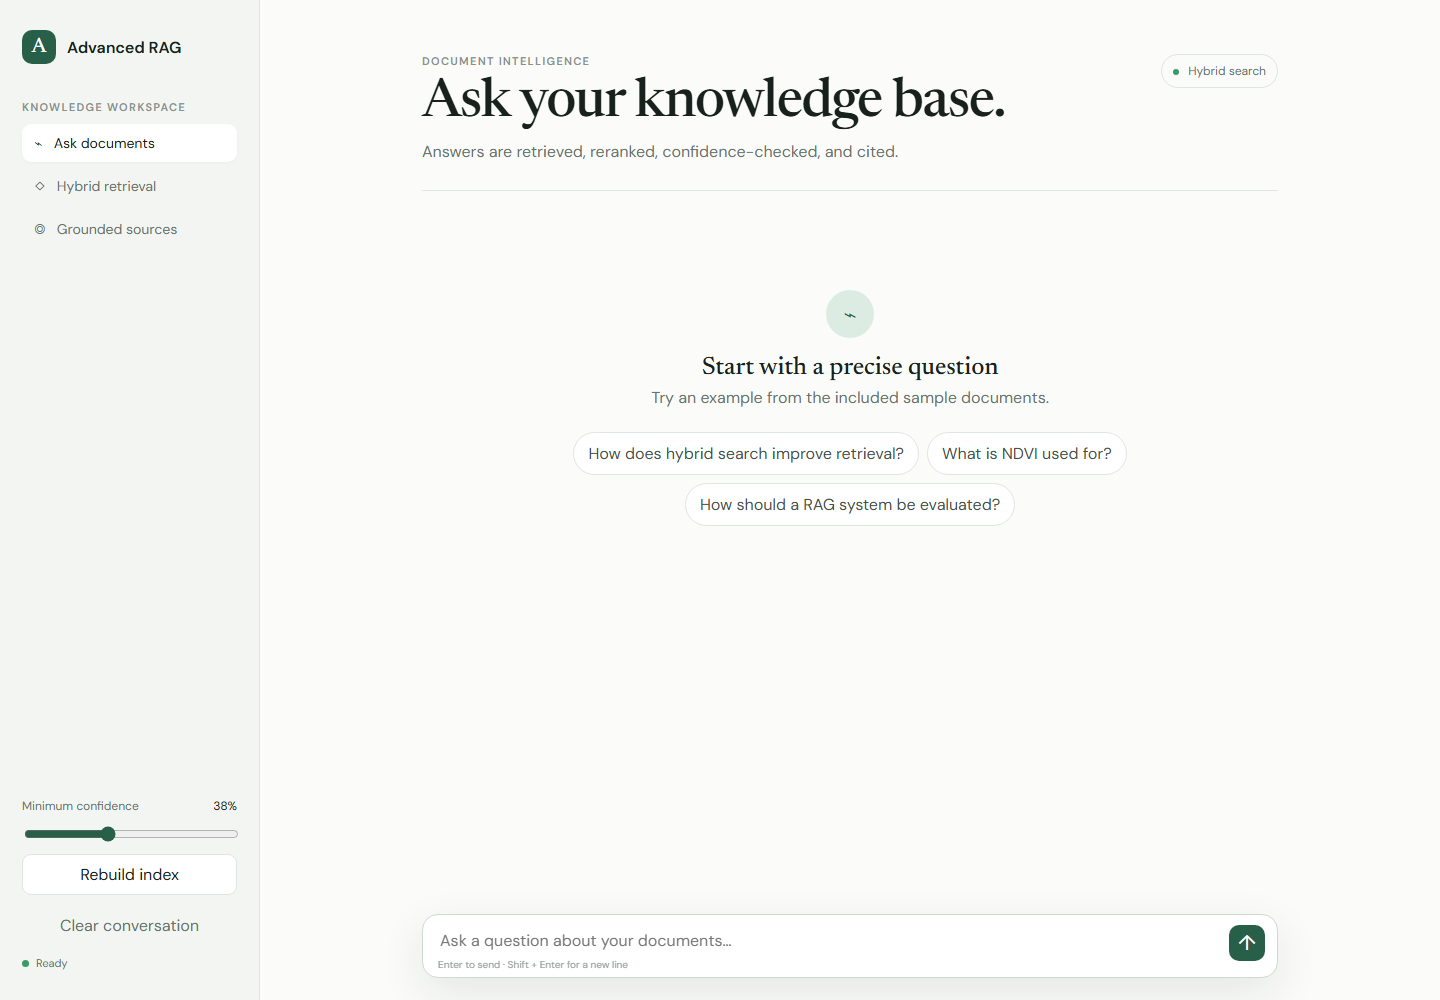
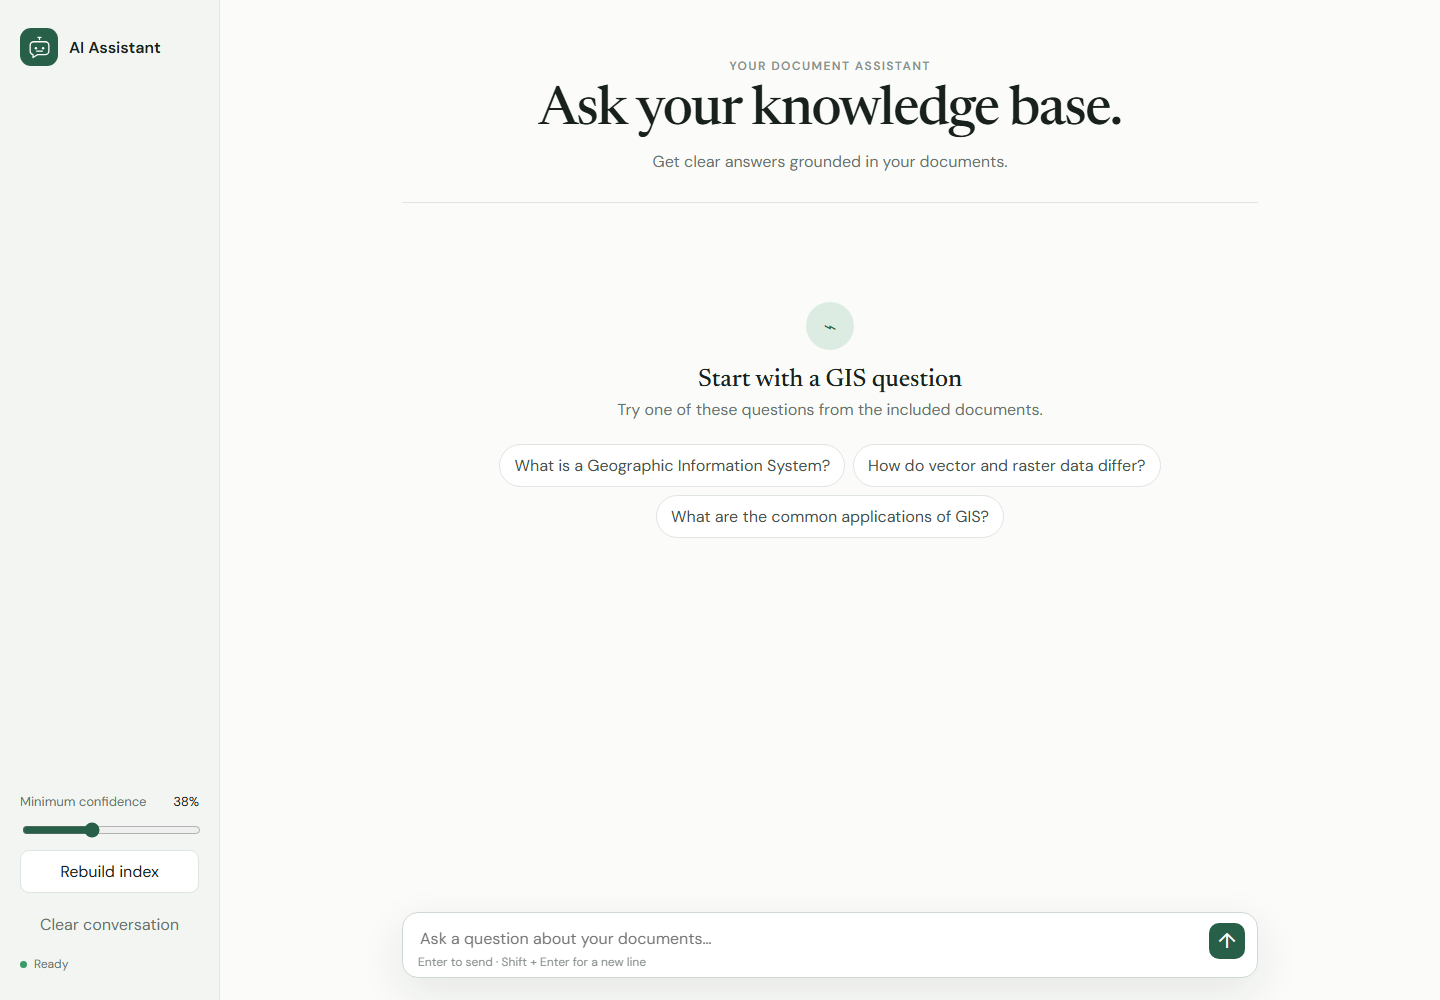
Refine assistant branding and GIS starter prompts

diff --git a/advanced rag/frontend/styles.css b/advanced rag/frontend/styles.css
@@ -1,2 +1,1 @@
-:root{--ink:#18211d;--muted:#68736d;--line:#dfe5e1;--paper:#fbfcfa;--panel:#f2f5f1;--green:#285f48;--mint:#dcece3}*{box-sizing:border-box}body{margin:0;color:var(--ink);background:var(--paper);font-family:"DM Sans",sans-serif}button,textarea,input{font:inherit}button{cursor:pointer}.shell{min-height:100vh;display:grid;grid-template-columns:260px 1fr}.sidebar{border-right:1px solid var(--line);background:var(--panel);padding:30px 22px;display:flex;flex-direction:column;justify-content:space-between}.brand{color:var(--ink);text-decoration:none;display:flex;align-items:center;gap:11px;font-weight:600}.mark{width:34px;height:34px;border-radius:10px;display:grid;place-items:center;color:#fff;background:var(--green);font:21px "Newsreader",serif}.eyebrow{margin:36px 0 10px;color:#89928d;font-size:11px;font-weight:600;letter-spacing:.12em;text-transform:uppercase}nav{display:grid;gap:5px}.nav{padding:10px 12px;color:var(--muted);border-radius:9px;font-size:14px}.nav.active{background:#fff;color:var(--ink);box-shadow:0 1px 3px #18211d0a}.controls{display:grid;gap:10px}.controls label{font-size:12px;color:var(--muted)}output{float:right;color:var(--ink)}input[type=range]{width:100%;accent-color:var(--green)}.secondary,.quiet{border:1px solid var(--line);border-radius:9px;background:#fff;padding:9px;color:var(--ink)}.quiet{background:transparent;border-color:transparent;color:var(--muted)}.status{font-size:11px;color:var(--muted);display:flex;align-items:center;gap:7px}.status span{width:7px;height:7px;border-radius:50%;background:#d09a39}.status.ready span{background:#3a9b68}main{width:min(920px,calc(100vw - 300px));min-height:100vh;margin:0 auto;padding:54px 32px 150px;position:relative}header{display:flex;justify-content:space-between;align-items:flex-start;border-bottom:1px solid var(--line);padding-bottom:28px}header .eyebrow{margin:0 0 8px}h1{font:500 clamp(34px,5vw,54px)/1.02 "Newsreader",serif;letter-spacing:-.025em;margin:0}.lede{margin:10px 0 0;color:var(--muted)}.method{padding:8px 11px;border:1px solid var(--line);border-radius:99px;color:var(--muted);font-size:12px;white-space:nowrap}.method i{display:inline-block;width:6px;height:6px;margin-right:6px;border-radius:50%;background:#3a9b68}.conversation{padding:34px 0;display:grid;gap:24px}.empty{text-align:center;padding:65px 10px}.orb{margin:auto;width:48px;height:48px;display:grid;place-items:center;color:var(--green);background:var(--mint);border-radius:50%;font-size:23px}h2{font:500 25px "Newsreader",serif;margin:18px 0 6px}.empty p{color:var(--muted);margin:0}.suggestions{display:flex;flex-wrap:wrap;justify-content:center;gap:8px;margin-top:24px}.suggestions button{border:1px solid var(--line);background:#fff;color:#46514b;padding:10px 14px;border-radius:99px}.message{max-width:82%}.message.user{justify-self:end;background:var(--green);color:#fff;padding:12px 16px;border-radius:16px 16px 3px 16px}.message.assistant{justify-self:start;width:82%}.answer{border-left:2px solid var(--mint);padding-left:17px;line-height:1.65;white-space:pre-wrap}.meta{color:var(--muted);font-size:11px;margin-top:9px}.sources{margin-top:12px;display:grid;gap:7px}.source{background:var(--panel);border:1px solid var(--line);border-radius:9px;padding:10px 12px}.source summary{cursor:pointer;font-size:12px;font-weight:600}.source p{color:var(--muted);font-size:12px;line-height:1.5;margin:8px 0 0}.composer{position:fixed;bottom:22px;left:calc(260px + (100vw - 260px)/2);transform:translateX(-50%);width:min(856px,calc(100vw - 324px));background:#fff;border:1px solid #cfd8d2;border-radius:16px;padding:13px 56px 24px 15px;box-shadow:0 15px 45px #18211d18}.composer textarea{display:block;width:100%;resize:none;border:0;outline:0;color:var(--ink);background:transparent;max-height:140px}.composer button{position:absolute;right:12px;top:10px;width:36px;height:36px;border:0;border-radius:10px;color:#fff;background:var(--green);font-size:21px}.composer p{position:absolute;bottom:6px;left:15px;margin:0;color:#9aa29e;font-size:10px}.loading{color:var(--muted);animation:pulse 1.2s infinite}@keyframes pulse{50%{opacity:.45}}@media(max-width:720px){.shell{display:block}.sidebar{position:static;border-right:0;border-bottom:1px solid var(--line);padding:18px}.sidebar>div:first-child .eyebrow,nav{display:none}.controls{margin-top:18px;grid-template-columns:1fr 1fr}.controls label,.controls input,.status{grid-column:1/-1}main{width:100%;padding:34px 18px 145px}.method{display:none}.composer{left:18px;transform:none;width:calc(100vw - 36px);bottom:14px}.message,.message.assistant{max-width:95%;width:95%}}
-
+:root{--ink:#18211d;--muted:#68736d;--line:#dfe5e1;--paper:#fbfcfa;--panel:#f2f5f1;--green:#285f48;--mint:#dcece3}*{box-sizing:border-box}body{margin:0;color:var(--ink);background:var(--paper);font-family:"DM Sans",sans-serif}button,textarea,input{font:inherit}button{cursor:pointer}.shell{min-height:100vh;display:grid;grid-template-columns:220px 1fr}.sidebar{border-right:1px solid var(--line);background:var(--panel);padding:28px 20px;display:flex;flex-direction:column;justify-content:space-between}.brand{color:var(--ink);text-decoration:none;display:flex;align-items:center;gap:11px;font-weight:600}.bot-logo{width:38px;height:38px;border-radius:11px;display:grid;place-items:center;background:var(--green)}.bot-logo svg{width:23px;height:23px;fill:none;stroke:#fff;stroke-width:1.8;stroke-linecap:round;stroke-linejoin:round}.bot-logo circle{fill:#fff;stroke:none}.eyebrow{color:#89928d;font-size:12px;font-weight:600;letter-spacing:.12em;text-transform:uppercase}.controls{display:grid;gap:10px}.controls label{font-size:13px;color:var(--muted)}output{float:right;color:var(--ink)}input[type=range]{width:100%;accent-color:var(--green)}.secondary,.quiet{border:1px solid var(--line);border-radius:9px;background:#fff;padding:10px;color:var(--ink)}.quiet{background:transparent;border-color:transparent;color:var(--muted)}.status{font-size:12px;color:var(--muted);display:flex;align-items:center;gap:7px}.status span{width:7px;height:7px;border-radius:50%;background:#d09a39}.status.ready span{background:#3a9b68}main{width:min(920px,calc(100vw - 260px));min-height:100vh;margin:0 auto;padding:54px 32px 150px;position:relative}header{text-align:center;border-bottom:1px solid var(--line);padding:4px 0 30px}.hero-copy{max-width:720px;margin:0 auto}header .eyebrow{margin:0 0 10px}h1{font:500 clamp(34px,5vw,54px)/1.02 "Newsreader",serif;letter-spacing:-.025em;margin:0}.lede{margin:12px 0 0;color:var(--muted);font-size:16px}.conversation{padding:34px 0;display:grid;gap:24px}.empty{text-align:center;padding:65px 10px}.orb{margin:auto;width:48px;height:48px;display:grid;place-items:center;color:var(--green);background:var(--mint);border-radius:50%;font-size:23px}h2{font:500 25px "Newsreader",serif;margin:18px 0 6px}.empty p{color:var(--muted);margin:0}.suggestions{display:flex;flex-wrap:wrap;justify-content:center;gap:8px;margin-top:24px}.suggestions button{border:1px solid var(--line);background:#fff;color:#46514b;padding:10px 14px;border-radius:99px}.message{max-width:82%}.message.user{justify-self:end;background:var(--green);color:#fff;padding:12px 16px;border-radius:16px 16px 3px 16px}.message.assistant{justify-self:start;width:82%}.answer{border-left:2px solid var(--mint);padding-left:17px;line-height:1.65;white-space:pre-wrap}.meta{color:var(--muted);font-size:12px;margin-top:9px}.sources{margin-top:12px;display:grid;gap:7px}.source{background:var(--panel);border:1px solid var(--line);border-radius:9px;padding:10px 12px}.source summary{cursor:pointer;font-size:13px;font-weight:600}.source p{color:var(--muted);font-size:13px;line-height:1.5;margin:8px 0 0}.composer{position:fixed;bottom:22px;left:calc(220px + (100vw - 220px)/2);transform:translateX(-50%);width:min(856px,calc(100vw - 284px));background:#fff;border:1px solid #cfd8d2;border-radius:16px;padding:13px 56px 26px 15px;box-shadow:0 15px 45px #18211d18}.composer textarea{display:block;width:100%;resize:none;border:0;outline:0;color:var(--ink);background:transparent;max-height:140px;font-size:16px}.composer button{position:absolute;right:12px;top:10px;width:36px;height:36px;border:0;border-radius:10px;color:#fff;background:var(--green);font-size:21px}.composer p{position:absolute;bottom:7px;left:15px;margin:0;color:#89928d;font-size:12px}.loading{color:var(--muted);animation:pulse 1.2s infinite}@keyframes pulse{50%{opacity:.45}}@media(max-width:720px){.shell{display:block}.sidebar{position:static;border-right:0;border-bottom:1px solid var(--line);padding:16px}.controls{margin-top:18px;grid-template-columns:1fr 1fr}.controls label,.controls input,.status{grid-column:1/-1}main{width:100%;padding:32px 18px 145px}.composer{left:18px;transform:none;width:calc(100vw - 36px);bottom:14px}.message,.message.assistant{max-width:95%;width:95%}}

diff --git a/advanced rag/frontend/index.html b/advanced rag/frontend/index.html
@@ -2,7 +2,7 @@
 <html lang="en">
 <head>
   <meta charset="utf-8"><meta name="viewport" content="width=device-width,initial-scale=1">
-  <title>Advanced RAG</title>
+  <title>AI Assistant</title>
   <link rel="preconnect" href="https://fonts.googleapis.com"><link rel="preconnect" href="https://fonts.gstatic.com" crossorigin>
   <link href="https://fonts.googleapis.com/css2?family=DM+Sans:wght@400;500;600&family=Newsreader:opsz,wght@6..72,500&display=swap" rel="stylesheet">
   <link rel="stylesheet" href="/static/styles.css">
@@ -10,9 +10,12 @@
 <body>
 <div class="shell">
   <aside class="sidebar">
-    <div><a class="brand" href="/"><span class="mark">A</span><span>Advanced RAG</span></a>
-      <p class="eyebrow">Knowledge workspace</p><nav><div class="nav active">⌁ &nbsp; Ask documents</div><div class="nav">◇ &nbsp; Hybrid retrieval</div><div class="nav">◎ &nbsp; Grounded sources</div></nav>
-    </div>
+    <a class="brand" href="/" aria-label="AI Assistant home">
+      <span class="bot-logo" aria-hidden="true">
+        <svg viewBox="0 0 32 32" role="img"><path d="M16 5V2m-2 0h4M8 8h16a5 5 0 0 1 5 5v8a5 5 0 0 1-5 5H13l-6 4v-4a5 5 0 0 1-4-5v-8a5 5 0 0 1 5-5Z"/><circle cx="11" cy="17" r="1.7"/><circle cx="21" cy="17" r="1.7"/><path d="M12 21h8"/></svg>
+      </span>
+      <span>AI Assistant</span>
+    </a>
     <div class="controls">
       <label for="threshold">Minimum confidence <output id="thresholdValue">38%</output></label>
       <input id="threshold" type="range" min="0" max="1" value=".38" step=".01">
@@ -21,14 +24,13 @@
     </div>
   </aside>
   <main>
-    <header><div><p class="eyebrow">Document intelligence</p><h1>Ask your knowledge base.</h1><p class="lede">Answers are retrieved, reranked, confidence-checked, and cited.</p></div><div class="method"><i></i> Hybrid search</div></header>
+    <header><div class="hero-copy"><p class="eyebrow">Your document assistant</p><h1>Ask your knowledge base.</h1><p class="lede">Get clear answers grounded in your documents.</p></div></header>
     <section id="conversation" class="conversation" aria-live="polite">
-      <div id="empty" class="empty"><div class="orb">⌁</div><h2>Start with a precise question</h2><p>Try an example from the included sample documents.</p>
-        <div class="suggestions"><button>How does hybrid search improve retrieval?</button><button>What is NDVI used for?</button><button>How should a RAG system be evaluated?</button></div>
+      <div id="empty" class="empty"><div class="orb">⌁</div><h2>Start with a GIS question</h2><p>Try one of these questions from the included documents.</p>
+        <div class="suggestions"><button>What is a Geographic Information System?</button><button>How do vector and raster data differ?</button><button>What are the common applications of GIS?</button></div>
       </div>
     </section>
     <form id="chatForm" class="composer"><textarea id="question" rows="1" maxlength="2000" placeholder="Ask a question about your documents…" required></textarea><button id="send" type="submit">↑</button><p>Enter to send · Shift + Enter for a new line</p></form>
   </main>
 </div><script src="/static/app.js" defer></script>
 </body></html>
-

diff --git a/advanced rag/app.py b/advanced rag/app.py
@@ -37,7 +37,7 @@ async def lifespan(_: FastAPI):
     yield
 
 
-app = FastAPI(title="Advanced RAG API", version="1.0.0", lifespan=lifespan)
+app = FastAPI(title="AI Assistant API", version="1.0.0", lifespan=lifespan)
 app.mount("/static", StaticFiles(directory=STATIC_DIR), name="static")
 
 
@@ -93,4 +93,3 @@ def chat(request: ChatRequest):
 def clear_session(request: SessionRequest):
     state["sessions"].pop(request.session_id, None)
     return {"cleared": True}
-
